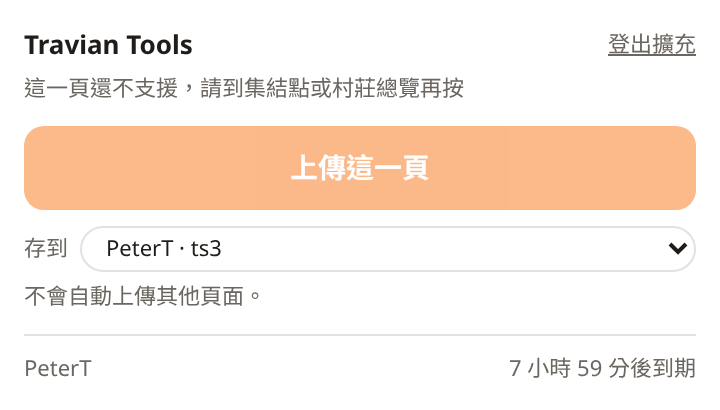
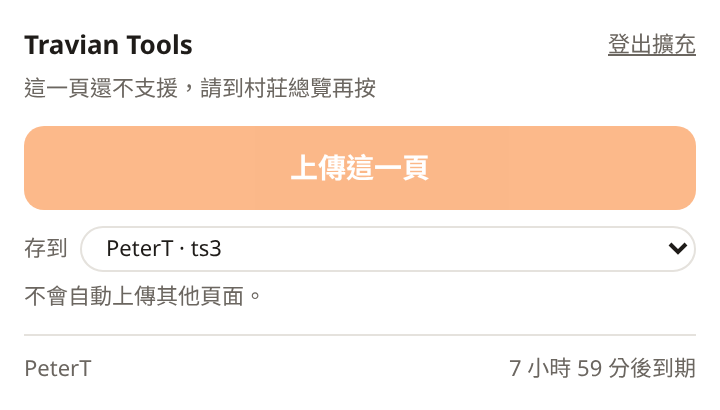
fix(extension): every disabled upload button has a hint; rally point pending
- unrecognised page (incl. non-Travian tabs, hero, map):
  「這一頁還不支援，請到村莊總覽再按」
- rally point: 「集結點的上傳還在做，目前請到村莊總覽再按」
- also hints while detecting, uploading, with no / no selected account;
  uploadState() guarantees canUpload === (hint === '') (tested exhaustively)
- TICKETS: P0-03 / P0-05 criterion to restore 集結點 in the hints and drop
  the pending hint once rally-point upload ships
- screenshots: unknown page + new rally point

Changed region(s): [[0.3361, 0.1756, 0.6417, 0.2634]]

diff --git a/browser-extension/popup/popup.js b/browser-extension/popup/popup.js
@@ -10,7 +10,7 @@
 
 import { API_BASE_URL, TOOL_SITE_URL } from '../lib/config.js';
 import { clearCredential, describeExpiry, loadCredential } from '../lib/credential.js';
-import { UPLOAD_ENDPOINTS, pageLabel } from '../lib/pages.js';
+import { UPLOAD_ENDPOINTS, UPLOAD_HINTS, uploadState } from '../lib/pages.js';
 
 const storage = chrome.storage.local;
 
@@ -24,7 +24,7 @@ const expiryEl = document.getElementById('expiry');
 const accountSelect = document.getElementById('account-select');
 const pageLineEl = document.getElementById('page-line');
 const pageTypeEl = document.getElementById('page-type');
-const unsupportedHintEl = document.getElementById('unsupported-hint');
+const uploadHintEl = document.getElementById('upload-hint');
 const syncBtn = document.getElementById('sync-btn');
 const syncResultEl = document.getElementById('sync-result');
 const errorMessageEl = document.getElementById('error-message');
@@ -35,6 +35,7 @@ const TRAVIAN_PAGE = /^https:\/\/([a-z0-9-]+\.)*travian\.(com|tw|net)\//i;
 // 狀態
 let credential = null;
 let currentPageType = null;
+let detecting = true;
 
 function showError(message) {
   errorMessageEl.textContent = message;
@@ -195,19 +196,27 @@ function renderAccounts() {
   }
 }
 
+/** 依頁面與帳號狀態更新「目前頁面」、說明文字與按鈕；按鈕不能按時一定有說明 */
 function refreshSyncButton() {
-  syncBtn.disabled = !(accountSelect.value && UPLOAD_ENDPOINTS[currentPageType]);
+  const state = uploadState({
+    pageType: currentPageType,
+    detecting,
+    hasAccounts: (credential?.accounts || []).length > 0,
+    accountSelected: Boolean(accountSelect.value),
+  });
+  pageTypeEl.textContent = state.pageName;
+  pageLineEl.classList.toggle('hidden', !state.pageName);
+  uploadHintEl.textContent = state.hint;
+  uploadHintEl.classList.toggle('hidden', !state.hint);
+  syncBtn.disabled = !state.canUpload;
 }
 
 async function detectPage() {
+  detecting = true;
+  refreshSyncButton();
   const result = await sendToContent('get_page_type');
   currentPageType = result.success ? result.page_type : null;
-  const name = pageLabel(currentPageType);
-  // 有好懂的名稱才顯示「目前頁面」；認不出的頁面（含非遊戲頁面）改顯示
-  // 「這一頁還不支援…」，按鈕維持不能按
-  pageTypeEl.textContent = name || '';
-  pageLineEl.classList.toggle('hidden', !name);
-  unsupportedHintEl.classList.toggle('hidden', Boolean(name));
+  detecting = false;
   refreshSyncButton();
 }
 
@@ -219,6 +228,8 @@ async function syncData() {
 
   syncBtn.disabled = true;
   syncBtn.textContent = '上傳中…';
+  uploadHintEl.textContent = UPLOAD_HINTS.UPLOADING;
+  uploadHintEl.classList.remove('hidden');
   syncResultEl.textContent = '';
   syncResultEl.className = 'sync-result';
 

diff --git a/browser-extension/lib/pages.js b/browser-extension/lib/pages.js
@@ -29,3 +29,43 @@ export const UPLOAD_ENDPOINTS = Object.freeze({
 export function pageLabel(pageType) {
   return Object.hasOwn(PAGE_NAMES, pageType ?? '') ? PAGE_NAMES[pageType] : '';
 }
+
+/** 上傳按鈕不能按時，按鈕上方一定要有的說明（不讓使用者看到沒有理由的灰色按鈕） */
+export const UPLOAD_HINTS = Object.freeze({
+  // 認不出的頁面（含非 Travian 分頁），以及認得但還不能上傳的頁面（英雄、地圖）
+  UNSUPPORTED_PAGE: '這一頁還不支援，請到村莊總覽再按',
+  // 集結點：認得，但上傳還在做（P0-03/P0-05 完成後拿掉這句，兩句都改回提到集結點）
+  RALLY_POINT_PENDING: '集結點的上傳還在做，目前請到村莊總覽再按',
+  DETECTING: '正在讀取這一頁…',
+  UPLOADING: '正在上傳這一頁…',
+  NO_ACCOUNTS: '請先在工具網站新增遊戲帳號',
+  CHOOSE_ACCOUNT: '請在下方選擇要存到哪個遊戲帳號',
+});
+
+/**
+ * popup 上傳區的狀態（純函式）。
+ * @param {{pageType?: string|null, detecting?: boolean, hasAccounts?: boolean, accountSelected?: boolean}} input
+ * @returns {{pageName: string, canUpload: boolean, hint: string}}
+ *   canUpload 為 false 時 hint 一定不是空字串。
+ */
+export function uploadState({
+  pageType = null,
+  detecting = false,
+  hasAccounts = false,
+  accountSelected = false,
+} = {}) {
+  const pageName = detecting ? '' : pageLabel(pageType);
+  let hint = '';
+  if (detecting) {
+    hint = UPLOAD_HINTS.DETECTING;
+  } else if (pageType === 'rally_point' && !Object.hasOwn(UPLOAD_ENDPOINTS, pageType)) {
+    hint = UPLOAD_HINTS.RALLY_POINT_PENDING;
+  } else if (!Object.hasOwn(UPLOAD_ENDPOINTS, pageType ?? '')) {
+    hint = UPLOAD_HINTS.UNSUPPORTED_PAGE;
+  } else if (!hasAccounts) {
+    hint = UPLOAD_HINTS.NO_ACCOUNTS;
+  } else if (!accountSelected) {
+    hint = UPLOAD_HINTS.CHOOSE_ACCOUNT;
+  }
+  return { pageName, canUpload: hint === '', hint };
+}

diff --git a/browser-extension/popup/popup.html b/browser-extension/popup/popup.html
@@ -24,8 +24,8 @@
     <!-- 已登入 -->
     <section id="main-section" class="hidden">
       <p id="page-line" class="small hidden">目前頁面：<span id="page-type"></span></p>
-      <!-- 認不出的頁面：按鈕維持不能按，並說明要去哪一頁 -->
-      <p id="unsupported-hint" class="small hidden">這一頁還不支援，請到集結點或村莊總覽再按</p>
+      <!-- 按鈕不能按時一定說明原因（文字見 lib/pages.js 的 UPLOAD_HINTS） -->
+      <p id="upload-hint" class="small" role="status">正在讀取這一頁…</p>
       <button id="sync-btn" type="button" class="btn p" disabled>上傳這一頁</button>
       <p class="small note target">
         <label for="account-select">存到</label>

diff --git a/browser-extension/popup/popup.css b/browser-extension/popup/popup.css
@@ -43,8 +43,13 @@ body {
   margin: 4px 0 10px;
 }
 
-/* 兩行都沒顯示時（偵測中），按鈕跟標題之間留一點距離 */
-#unsupported-hint.hidden + .btn {
+/* 「目前頁面」和下面的說明文字靠近一點 */
+#page-line {
+  margin-bottom: 2px;
+}
+
+/* 可以上傳時（沒有說明文字），按鈕跟上一行之間留一點距離 */
+#upload-hint.hidden + .btn {
   margin-top: 10px;
 }
 

diff --git a/docs/TICKETS.md b/docs/TICKETS.md
@@ -42,6 +42,7 @@
   - 支援多村總覽
   - 擴充 HTML、貼上文字、截圖辨識結果都走同一套解析器
   - 補上 parser 樣本檔，原本被跳過的 43 個測試要實際跑過
+  - 擴充可以上傳集結點後：popup 兩句提示都改回提到集結點（「這一頁還不支援，請到村莊總覽再按」改成同時提到集結點與村莊總覽），並拿掉「集結點的上傳還在做，目前請到村莊總覽再按」（`browser-extension/lib/pages.js` 的 `UPLOAD_HINTS`）
 
 ### P0-04 擴充重寫 ⬜（3 天）
 - 驗收：
@@ -60,6 +61,7 @@
   - 「擷取時間」可以修改，接近午夜時提醒確認日期
   - 重貼時按同一秒的筆數比對，前 min(N, M) 筆算更新，永遠不自動刪除；畫面標示新增幾筆、更新幾筆
   - 「送出內容幫忙改進解析」預設關閉，勾選前提醒內容裡有座標和玩家名稱
+  - 擴充可以上傳集結點後：popup 兩句提示都改回提到集結點（「這一頁還不支援，請到村莊總覽再按」改成同時提到集結點與村莊總覽），並拿掉「集結點的上傳還在做，目前請到村莊總覽再按」（`browser-extension/lib/pages.js` 的 `UPLOAD_HINTS`）
 
 ### P0-06 最簡單的來襲列表 ⬜（併入 P0-05 工時）
 - 驗收：依抵達時間排序、顯示倒數、待補的標黃、可以點進去補座標
@@ -139,3 +141,4 @@
 | 2026-10-05 | v2.0.1 | 新增 P0-12：Cloud Run 部署時擴充 `host_permissions` 改指向正式網址 |
 | 2026-10-05 | v2.0.2 | P0-04 驗收補上：popup 不放輸入框、沒登入只給「在工具網站登入」、擴充登入憑證有到期時間且登出一起清 |
 | 2026-10-05 | v2.0.3 | P0-04：「沒有背景程式」改為明確的一句（附合規測試）；新增「網站登出時撤銷擴充憑證」（`extension_token_version`，只影響擴充憑證，不登出其他裝置）與「擴充憑證只能上傳」兩條驗收 |
+| 2026-10-05 | v2.0.4 | P0-04 popup 提示改為只指向村莊總覽（集結點另有「上傳還在做」提示）；P0-03、P0-05 驗收補上：集結點上傳完成後把兩句提示改回提到集結點，並拿掉「還在做」提示 |
